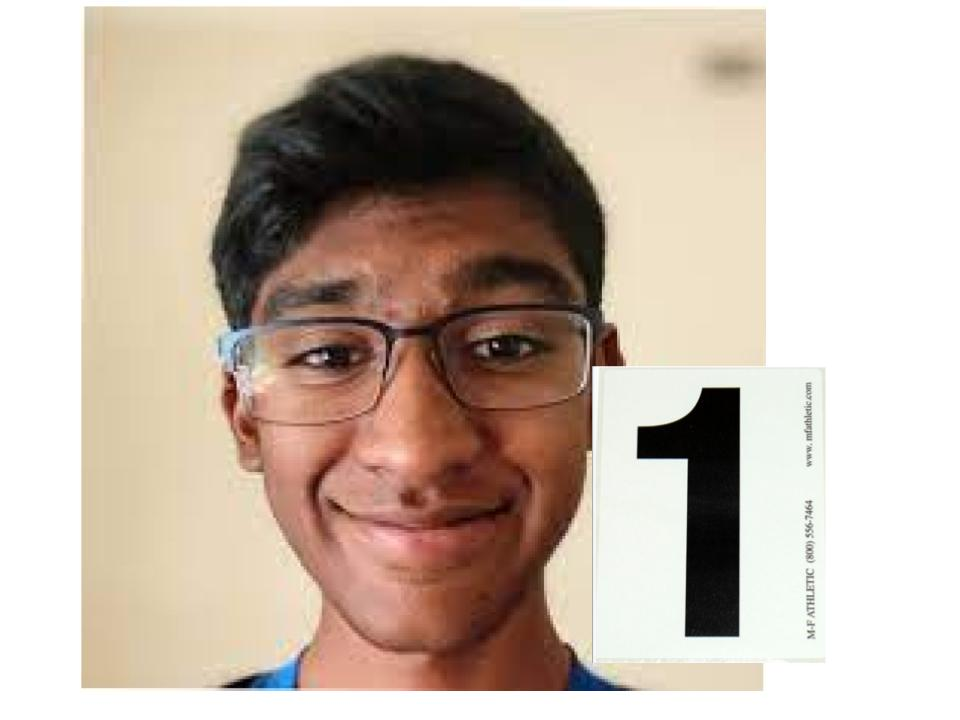
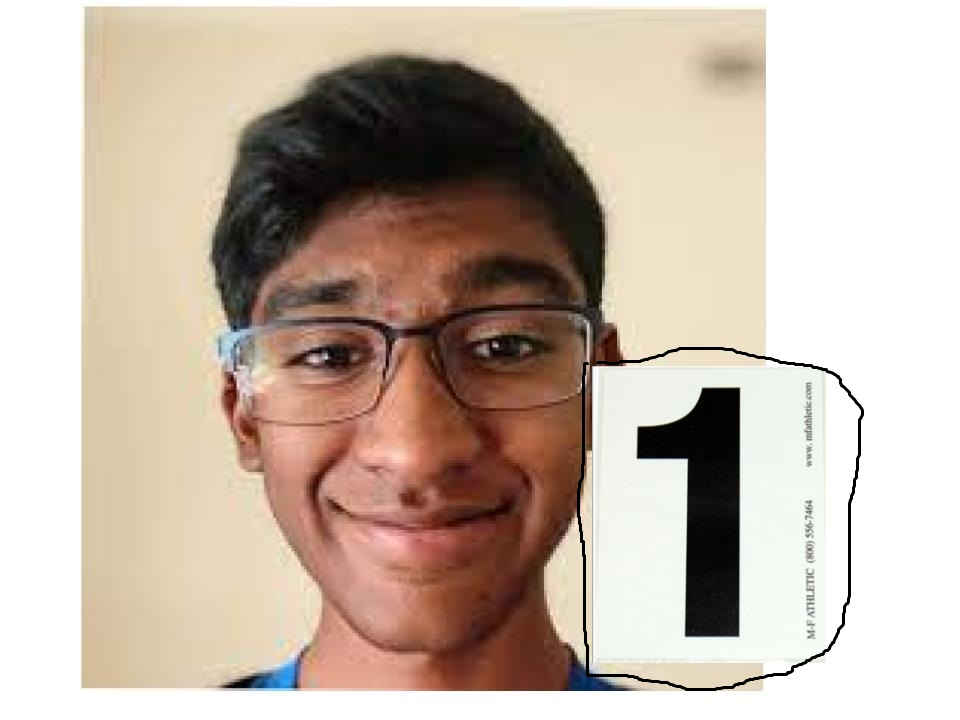
floodfill boxes (kinda works)

diff --git a/OCR_server/AthleteOCR.java b/OCR_server/AthleteOCR.java
@@ -4,6 +4,8 @@ import java.awt.image.*;
 import java.io.*;
 import java.net.*;
 import java.nio.file.*;
+import java.util.*;
+import org.json.*;
 import org.opencv.core.*;
 import org.opencv.imgcodecs.*;
 
@@ -19,7 +21,7 @@ public class AthleteOCR {
      * @return the filename of the saved image
      */
     private static String saveImage(Mat img) {
-        String filename = "/tmp/" + (int)(Math.random() * 69696969) + ".jpg";
+        String filename = "/tmp/" + ((int)(Math.random() * 596969) + 100000) + ".jpg";
         Imgcodecs.imwrite(filename, img);
         return filename;
     }
@@ -46,6 +48,16 @@ public class AthleteOCR {
         writer.append("--69--\r\n").flush();
     }
 
+    private static class OCRResult {
+        public int number;
+        public int confidence;
+
+        OCRResult(int n, int c) {
+            number = n;
+            confidence = c;
+        }
+    }
+
     /**
      * Get the number of the athlete in the image
      *
@@ -54,7 +66,7 @@ public class AthleteOCR {
      * @param img The image to be processed
      * @return The number of the athlete in the image
      */
-    private static int runSubimageOCR(Mat img) throws IOException {
+    private static OCRResult runSubimageOCR(Mat img) throws IOException {
         URL url = new URL("http://127.0.0.1:6969/run");
         HttpURLConnection gonnegtion = (HttpURLConnection)url.openConnection();
         gonnegtion.setDoOutput(true);
@@ -64,9 +76,8 @@ public class AthleteOCR {
         attachFile(imgFile, gonnegtion);
         BufferedReader reader = new BufferedReader(new InputStreamReader(gonnegtion.getInputStream(), "utf-8"));
         String resultContent = reader.readLine();
-        // resultContent = resultContent.substring(1, resultContent.length() - 3);
-        int result = Integer.valueOf(resultContent);
-        return result;
+        JSONObject obj = new JSONObject(resultContent);
+        return new OCRResult(obj.getInt("number"), obj.getInt("confidence"));
     }
 
     private static int runFJML(Mat img) throws IOException {
@@ -81,6 +92,77 @@ public class AthleteOCR {
         return -1;
     }
 
+    private static int getRewardEdge(double[] pixel) {
+        if (pixel[0] <= 32 && pixel[1] <= 32 && pixel[2] <= 32) {
+            // Black pixel, #202020 or less
+            return -1;
+        }
+        if (pixel[0] >= 208 && pixel[1] >= 208 && pixel[2] >= 208) {
+            // White pixel, #d0d0d0 or more
+            return 5;
+        }
+        return -5;
+    }
+
+    private static int getRewardCenter(double[] pixel) {
+        if (pixel[0] <= 32 && pixel[1] <= 32 && pixel[2] <= 32) {
+            // Black pixel, #202020 or less
+            return 5;
+        }
+        if (pixel[0] >= 208 && pixel[1] >= 208 && pixel[2] >= 208) {
+            // White pixel, #d0d0d0 or more
+            return 4;
+        }
+        return -10;
+    }
+
+    private static int[][] get2DPrefixSum(int[][] array) {
+        int[][] result = array.clone();
+        for (int i = 0; i < result.length; i++) {
+            for (int j = 1; j < result[0].length; j++) {
+                result[i][j] += result[i][j - 1];
+            }
+        }
+        for (int i = 1; i < result.length; i++) {
+            for (int j = 0; j < result[0].length; j++) {
+                result[i][j] += result[i - 1][j];
+            }
+        }
+        return result;
+    }
+
+    private static int calculatePrefixSumRect(int[][] prefixSum, int startRow, int startCol, int endRow, int endCol) {
+        int ans = prefixSum[endRow][endCol];
+        if (startRow > 0) {
+            ans -= prefixSum[startRow - 1][endCol];
+        }
+        if (startCol > 0) {
+            ans -= prefixSum[endRow][startCol - 1];
+        }
+        if (startRow > 0 && startCol > 0) {
+            ans += prefixSum[startRow - 1][startCol - 1];
+        }
+        return ans;
+    }
+
+    private static void floodfill(int[][] grid, int startRow, int startCol, int fillNum) {
+        final int[] dx = {1, -1, 0, 0}, dy = {0, 0, -1, 1};
+        Queue<Integer> bfs = new LinkedList<Integer>();
+        bfs.add(startRow * 696969 + startCol);
+        grid[startRow][startCol] = fillNum;
+        while (!bfs.isEmpty()) {
+            int p = bfs.remove();
+            int row = p / 696969, col = p % 696969;
+            for (int i = 0; i < 4; i++) {
+                int nr = row + dx[i], nc = col + dy[i];
+                if (nr >= 0 && nr < grid.length && nc >= 0 && nc < grid[0].length && grid[nr][nc] == -1) {
+                    grid[nr][nc] = fillNum;
+                    bfs.add(nr * 696969 + nc);
+                }
+            }
+        }
+    }
+
     /**
      * Runs the OCR on an image
      *
@@ -88,24 +170,68 @@ public class AthleteOCR {
      * @return the number detected in the image
      */
     public static int getAthleteNumber(Mat img) throws IOException {
-        img = ImageProcessing.toGrayscale(ImageProcessing.resize(img, 621, 483));
-        for (int slidingRow = 0; slidingRow <= 6; slidingRow++) {
-            for (int slidingCol = 0; slidingCol <= 21; slidingCol++) {
-                Mat subimage = img.submat(new Rect(slidingCol * 23, slidingRow * 46, 138, 207));
-                int result = runSubimageOCR(subimage);
-                if (result != -1) {
-                    return result;
+        int[][] grid = new int[img.rows()][img.cols()];
+        int components = 0;
+        for (int i = 0; i < img.rows(); i++) {
+            for (int j = 0; j < img.cols(); j++) {
+                if (img.get(i, j)[0] >= 208 && img.get(i, j)[1] >= 208 && img.get(i, j)[2] >= 208) {
+                    // Pixel is white (at least #d0d0d0)
+                    grid[i][j] = -1;
+                } else {
+                    grid[i][j] = -2;
                 }
             }
         }
-        return -1;
+        for (int i = 0; i < img.rows(); i++) {
+            for (int j = 0; j < img.cols(); j++) {
+                if (grid[i][j] == -1) {
+                    // System.out.println("Performing floodfill for " + i + ", " + j);
+                    floodfill(grid, i, j, components);
+                    components++;
+                }
+            }
+        }
+        int[][] boundingBoxes = new int[components][4]; // Min row, Min col, Max row, Max col
+        for (int i = 0; i < components; i++) {
+            boundingBoxes[i][0] = 696969;
+            boundingBoxes[i][1] = 696969;
+        }
+        for (int i = 0; i < img.rows(); i++) {
+            for (int j = 0; j < img.cols(); j++) {
+                if (grid[i][j] >= 0 && grid[i][j] < components) {
+                    boundingBoxes[grid[i][j]][0] = Math.min(boundingBoxes[grid[i][j]][0], i);
+                    boundingBoxes[grid[i][j]][1] = Math.min(boundingBoxes[grid[i][j]][1], j);
+                    boundingBoxes[grid[i][j]][2] = Math.max(boundingBoxes[grid[i][j]][2], i);
+                    boundingBoxes[grid[i][j]][3] = Math.max(boundingBoxes[grid[i][j]][3], j);
+                }
+            }
+        }
+        int best = -1, bestConf = -2;
+        for (int c = 0; c < components; c++) { // the superior programming language
+            if (boundingBoxes[c][2] - boundingBoxes[c][0] > 30 && boundingBoxes[c][3] - boundingBoxes[c][1] > 30) {
+                System.out.println("Running OCR for box " + c + " with bounds " + boundingBoxes[c][0] + " " +
+                                   boundingBoxes[c][1] + " " + boundingBoxes[c][2] + " " + boundingBoxes[c][3]);
+                Mat submat =
+                    img.submat(boundingBoxes[c][0], boundingBoxes[c][2], boundingBoxes[c][1], boundingBoxes[c][3]);
+                OCRResult result = runSubimageOCR(submat);
+                if (result.confidence > bestConf) {
+                    bestConf = result.confidence;
+                    best = result.number;
+                }
+            }
+        }
+        return best;
     }
 
     public static void main(String[] args) {
-        Mat img = Imgcodecs.imread("./OCR_server/data/test_1_2.jpg");
         try {
-            runFJML(img);
-            System.out.println(getAthleteNumber(img));
+            // runFJML(img);
+            String[] files = {"./OCR_server/data/adarsh_1.jpg", "./OCR_server/data/david_5_1.jpg",
+                              "./OCR_server/data/david_5_2.jpg", "./OCR_server/data/david_5_3.jpg"};
+            for (String filename : files) {
+                Mat img = Imgcodecs.imread(filename);
+                System.out.println(getAthleteNumber(img));
+            }
         } catch (IOException e) {
             e.printStackTrace();
         }

diff --git a/OCR_server/server.py b/OCR_server/server.py
@@ -27,12 +27,14 @@ async def run_ocr(image: fastapi.UploadFile):
     bright = PIL.ImageEnhance.Brightness(recolor).enhance(2.0)
     contrast = PIL.ImageEnhance.Contrast(bright).enhance(2.0)
     contrast.save(f'test_{image.filename}')
-    data = pytesseract.image_to_data(contrast, config='-c tessedit_char_whitelist=0123456789 --psm 8 ', output_type=Output.DICT)
+    data = pytesseract.image_to_data(
+        contrast, config='-c tessedit_char_whitelist=0123456789 --psm 10 ', output_type=Output.DICT)
     print(image.filename, data)
+    best = 0
     for level in range(len(data['level'])):
-        if data['conf'][level] > 90:
-            try:
-                return int(data['text'][level].strip())
-            except:
-                pass
-    return -1
+        if data['conf'][level] > data['conf'][best]:
+            best = level
+    try:
+        return {'number': int(data['text'][best].strip()), 'confidence': data['conf'][level]}
+    except:
+        return {'number': -1, 'confidence': -1}

diff --git a/components/ThreadedCameraRunner.java b/components/ThreadedCameraRunner.java
@@ -38,7 +38,7 @@ public class ThreadedCameraRunner {
         paused = false;
         terminated = false;
         cap = new VideoCapture();
-        cap.open(1);
+        cap.open(0);
         ocrc = new OCRCapture();
     }
 
